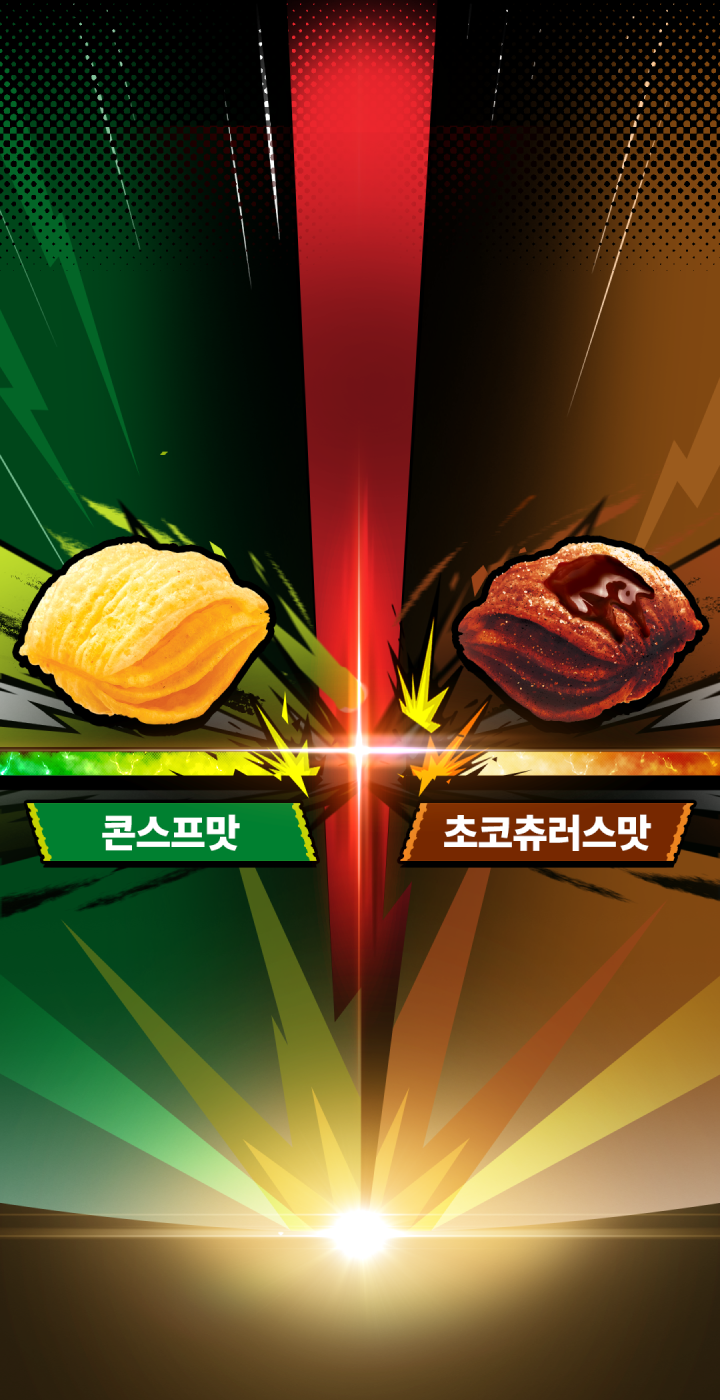
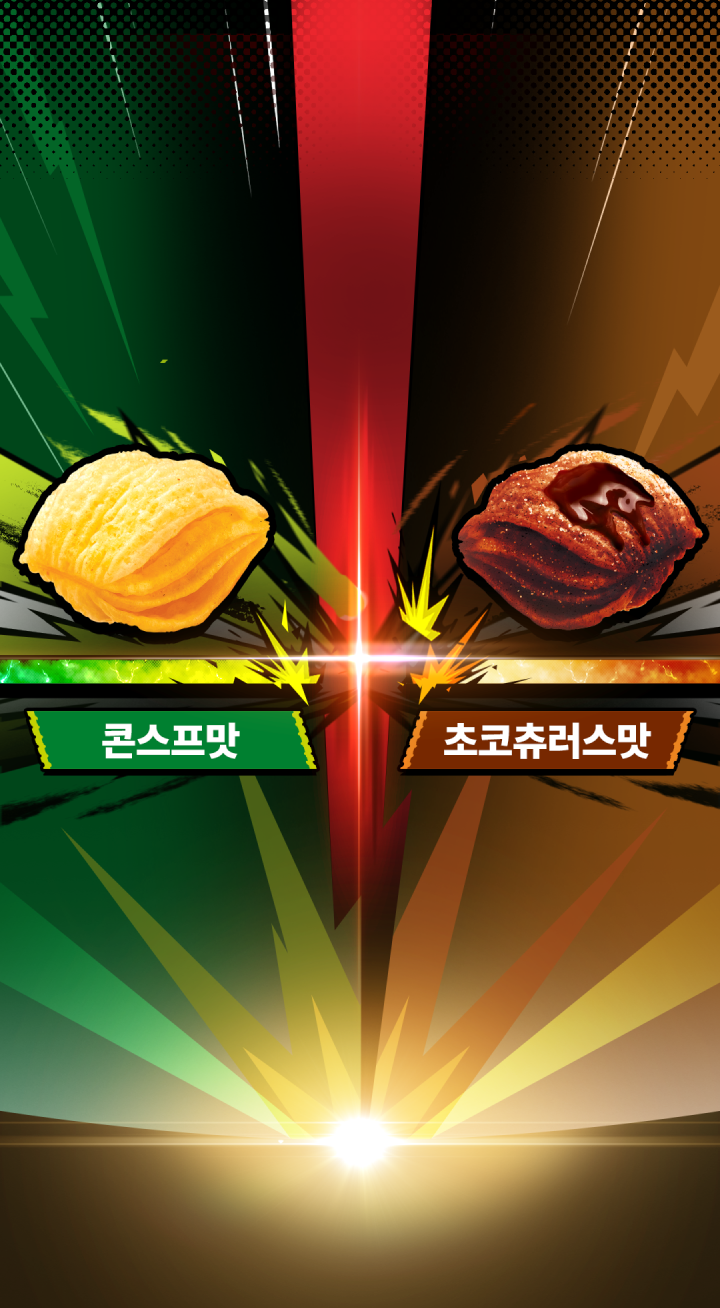
ddd

diff --git a/resources/css/style.css b/resources/css/style.css
@@ -3867,7 +3867,7 @@ body.scroll-disable {
 .visual--wrap {
   position: relative;
   overflow: hidden;
-  padding-bottom: 194.444%;
+  padding-bottom: 181.666%;
 }
 .visual--wrap .box-inner {
   position: absolute;
@@ -3880,7 +3880,7 @@ body.scroll-disable {
 }
 .visual--wrap .visual-img--title {
   position: absolute;
-  top: 118.6666666667px;
+  top: 80px;
   left: 50%;
   -webkit-transform: translateX(-50%);
           transform: translateX(-50%);
@@ -3891,7 +3891,7 @@ body.scroll-disable {
 }
 @media (max-width: 480px) {
   .visual--wrap .visual-img--title {
-    top: 24.7222222222vw;
+    top: 16.6666666667vw;
   }
 }
 @media (max-width: 480px) {
@@ -3901,7 +3901,7 @@ body.scroll-disable {
 }
 .visual--wrap .vs-img--wrap {
   position: absolute;
-  top: 43%;
+  top: 38%;
   left: 50%;
   -webkit-transform: translateX(-50%);
           transform: translateX(-50%);
@@ -6465,11 +6465,12 @@ body.scroll-disable {
 }
 
 .floating-button--wrap {
+  position: relative;
   display: -webkit-box;
   display: -ms-flexbox;
   display: flex;
   padding-top: 13.3333333333px;
-  padding-bottom: 13.3333333333px;
+  padding-bottom: 12px;
   background: -webkit-gradient(linear, left top, left bottom, from(#ffed46), to(#ffa800));
   background: linear-gradient(180deg, #ffed46 0%, #ffa800 100%);
 }
@@ -6480,7 +6481,7 @@ body.scroll-disable {
 }
 @media (max-width: 480px) {
   .floating-button--wrap {
-    padding-bottom: 2.7777777778vw;
+    padding-bottom: 2.5vw;
   }
 }
 
@@ -6498,10 +6499,23 @@ body.scroll-disable {
   -webkit-box-pack: center;
       -ms-flex-pack: center;
           justify-content: center;
-  width: 33.33%;
+}
+.floating-button:nth-child(1) {
+  min-width: 146.6666666667px;
+}
+@media (max-width: 480px) {
+  .floating-button:nth-child(1) {
+    min-width: 30.5555555556vw;
+  }
 }
 .floating-button:nth-child(2) {
   position: relative;
+  min-width: 186.6666666667px;
+}
+@media (max-width: 480px) {
+  .floating-button:nth-child(2) {
+    min-width: 38.8888888889vw;
+  }
 }
 .floating-button:nth-child(2)::before {
   content: "";
@@ -6537,6 +6551,22 @@ body.scroll-disable {
 @media (max-width: 480px) {
   .floating-button:nth-child(2)::after {
     height: 11.1111111111vw;
+  }
+}
+.floating-button:nth-child(2) .small-text {
+  margin-bottom: 1.3333333333px;
+}
+@media (max-width: 480px) {
+  .floating-button:nth-child(2) .small-text {
+    margin-bottom: 0.2777777778vw;
+  }
+}
+.floating-button:nth-child(3) {
+  min-width: 146.6666666667px;
+}
+@media (max-width: 480px) {
+  .floating-button:nth-child(3) {
+    min-width: 30.5555555556vw;
   }
 }
 .floating-button .small-text {
@@ -6578,6 +6608,14 @@ body.scroll-disable {
 @media (max-width: 480px) {
   .floating-button .big-text {
     line-height: 4.9166666667vw;
+  }
+}
+.floating-button .img-vote--title {
+  width: 102.6666666667px;
+}
+@media (max-width: 480px) {
+  .floating-button .img-vote--title {
+    width: 21.3888888889vw;
   }
 }
 

diff --git a/resources/scss/views/_main.scss b/resources/scss/views/_main.scss
@@ -3,7 +3,8 @@
 .visual--wrap {
   position: relative;
   overflow: hidden;
-  padding-bottom: 194.444%;
+  // padding-bottom: 194.444%;
+  padding-bottom: 181.666%;
   .box-inner {
     position: absolute;
     top: 0;
@@ -16,7 +17,7 @@
   .visual-img--title {
     position: absolute;
     // top: 89px;
-    @include _vw(top, 89px);
+    @include _vw(top, 60px);
     left: 50%;
     transform: translateX(-50%);
     @include _vw(max-width, 324px);
@@ -25,7 +26,8 @@
   }
   .vs-img--wrap {
     position: absolute;
-    top: 43%;
+    // top: 43%;
+    top: 38%;
     left: 50%;
     transform: translateX(-50%);
     @include _vw(max-width, 99px);
@@ -1053,14 +1055,11 @@
   transform: translateX(-50%);
   z-index: 100;
 }
-.floating-box-link {
-  // animation: up-ani 0.3s 0.5s both;
-  // transform: translate(-50%, 100%);
-}
 .floating-button--wrap {
+  position: relative;
   display: flex;
   @include _vw(padding-top, 10px);
-  @include _vw(padding-bottom, 10px);
+  @include _vw(padding-bottom, 9px);
   background: linear-gradient(180deg, #ffed46 0%, #ffa800 100%);
 }
 .floating-button {
@@ -1068,9 +1067,13 @@
   flex-direction: column;
   align-items: center;
   justify-content: center;
-  width: 33.33%;
+  // width: 33.33%;
+  &:nth-child(1) {
+    @include _vw(min-width, 110px);
+  }
   &:nth-child(2) {
     position: relative;
+    @include _vw(min-width, 140px);
     &::before {
       content: '';
       position: absolute;
@@ -1087,6 +1090,12 @@
       @include _vw(height, 40px);
       background: #000;
     }
+    .small-text {
+      @include _vw(margin-bottom, 1px);
+    }
+  }
+  &:nth-child(3) {
+    @include _vw(min-width, 110px);
   }
   .small-text {
     @include _vw(font-size, 10px);
@@ -1103,5 +1112,8 @@
     @include _vw(line-height, 17.7px);
     letter-spacing: -0.02em;
     text-align: center;
+  }
+  .img-vote--title {
+    @include _vw(width, 77px);
   }
 }

diff --git a/html-dev/views/메인/메인.html b/html-dev/views/메인/메인.html
@@ -373,11 +373,6 @@
                 </div>
               </div>
             </div>
-            <!-- <div class="purchase-product--wrap">
-              <div class="box-inner">
-                <a href="javascript:void(0)" class="purchase-product--button">꼬북칩 구매하러가기</a>
-              </div>
-            </div> -->
             <div class="event-caution--wrap">
               <div class="box-inner">
                 <h3 class="event-caution--title">유의사항</h3>
@@ -397,14 +392,16 @@
       <!-- footer 위에 위치 -->
       <div class="floating-box floating-box-link">
         <div class="section-inner">
-          <div class="floating-button--wrap">
-            <a href="javascript:void(0)" class="floating-button" data-link="voteFavor">
-              <span class="small-text">콘스프맛vs초코츄러스맛</span>
-              <span class="big-text">투표하기</span>
-            </a>
+          <div class="floating-button--wrap btn-effect">
             <a href="javascript:void(0)" class="floating-button" data-link="event1">
               <span class="small-text">EVENT1</span>
               <span class="big-text">응원톡 매치</span>
+            </a>
+            <a href="javascript:void(0)" class="floating-button" data-link="voteFavor">
+              <span class="small-text">콘스프맛vs초코츄러스맛</span>
+              <span class="img-vote--title">
+                <img src="../../../resources/images/main/img-floating-title.png" alt="투표하기" />
+              </span>
             </a>
             <a href="javascript:void(0)" class="floating-button" data-link="event2">
               <span class="small-text">EVENT2</span>

diff --git a/html/views/메인/메인.html b/html/views/메인/메인.html
@@ -411,11 +411,6 @@
               </div>
             </div>
           </div>
-          <!-- <div class="purchase-product--wrap">
-              <div class="box-inner">
-                <a href="javascript:void(0)" class="purchase-product--button">꼬북칩 구매하러가기</a>
-              </div>
-            </div> -->
           <div class="event-caution--wrap">
             <div class="box-inner">
               <h3 class="event-caution--title">유의사항</h3>
@@ -435,14 +430,16 @@
     <!-- footer 위에 위치 -->
     <div class="floating-box floating-box-link">
       <div class="section-inner">
-        <div class="floating-button--wrap">
-          <a href="javascript:void(0)" class="floating-button" data-link="voteFavor">
-            <span class="small-text">콘스프맛vs초코츄러스맛</span>
-            <span class="big-text">투표하기</span>
-          </a>
+        <div class="floating-button--wrap btn-effect">
           <a href="javascript:void(0)" class="floating-button" data-link="event1">
             <span class="small-text">EVENT1</span>
             <span class="big-text">응원톡 매치</span>
+          </a>
+          <a href="javascript:void(0)" class="floating-button" data-link="voteFavor">
+            <span class="small-text">콘스프맛vs초코츄러스맛</span>
+            <span class="img-vote--title">
+                <img src="../../../resources/images/main/img-floating-title.png" alt="투표하기" />
+              </span>
           </a>
           <a href="javascript:void(0)" class="floating-button" data-link="event2">
             <span class="small-text">EVENT2</span>
